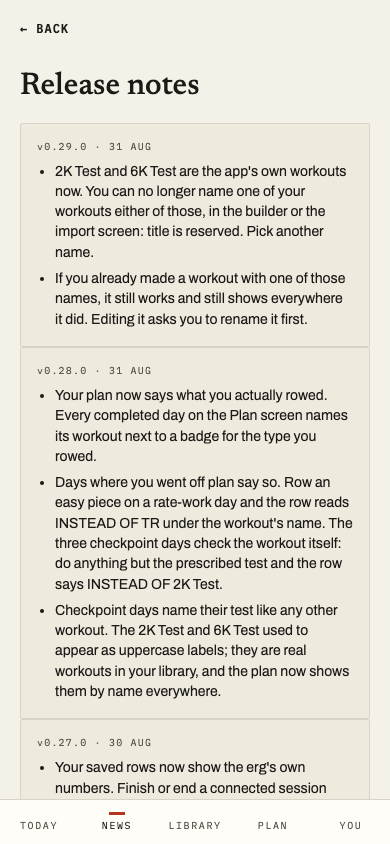
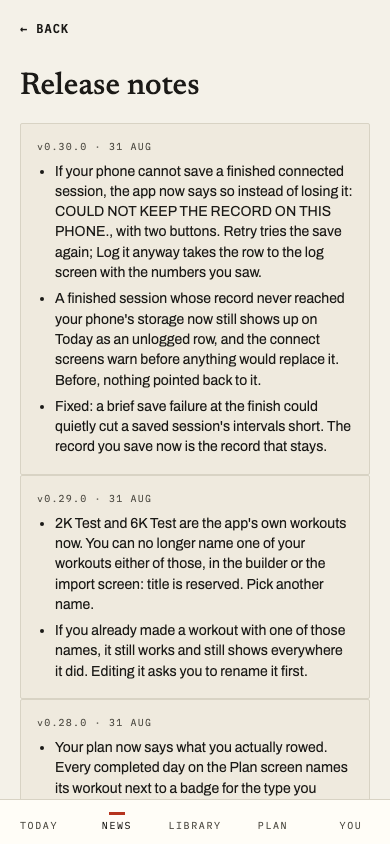
v0.30.0 release notes: the app says when it cannot keep the record (#241)
Claude-Session: https://claude.ai/code/session_01UEXqdgDid4Qjd8D5uoRZ3H

Changed region(s): [[0.0923, 0.1848, 0.8923, 0.955]]

diff --git a/app/e2e/news.spec.ts b/app/e2e/news.spec.ts
@@ -184,35 +184,36 @@ test("/news/releases lists every version, newest first", async ({ page }) => {
   // deliberately fails here — that is this pin's job, and it is why the
   // title no longer names a number that goes stale every tag.
   const versions = page.locator(".news-release-version");
-  await expect(versions).toHaveCount(28);
+  await expect(versions).toHaveCount(29);
   await expect(versions.nth(0)).toContainText(NEWEST_RELEASE_VERSION);
-  await expect(versions.nth(1)).toContainText("v0.28.0");
-  await expect(versions.nth(2)).toContainText("v0.27.0");
-  await expect(versions.nth(3)).toContainText("v0.26.0");
-  await expect(versions.nth(4)).toContainText("v0.25.0");
-  await expect(versions.nth(5)).toContainText("v0.24.0");
-  await expect(versions.nth(6)).toContainText("v0.23.0");
-  await expect(versions.nth(7)).toContainText("v0.22.0");
-  await expect(versions.nth(8)).toContainText("v0.21.0");
-  await expect(versions.nth(9)).toContainText("v0.20.0");
-  await expect(versions.nth(10)).toContainText("v0.19.1");
-  await expect(versions.nth(11)).toContainText("v0.19.0");
-  await expect(versions.nth(12)).toContainText("v0.18.1");
-  await expect(versions.nth(13)).toContainText("v0.18.0");
-  await expect(versions.nth(14)).toContainText("v0.17.0");
-  await expect(versions.nth(15)).toContainText("v0.16.0");
-  await expect(versions.nth(16)).toContainText("v0.15.0");
-  await expect(versions.nth(17)).toContainText("v0.14.0");
-  await expect(versions.nth(18)).toContainText("v0.13.0");
-  await expect(versions.nth(19)).toContainText("v0.12.0");
-  await expect(versions.nth(20)).toContainText("v0.11.0");
-  await expect(versions.nth(21)).toContainText("v0.10.0");
-  await expect(versions.nth(22)).toContainText("v0.9.0");
-  await expect(versions.nth(23)).toContainText("v0.8.0");
-  await expect(versions.nth(24)).toContainText("v0.7.0");
-  await expect(versions.nth(25)).toContainText("v0.5.1");
-  await expect(versions.nth(26)).toContainText("v0.5.0");
-  await expect(versions.nth(27)).toContainText("v0.4.0");
+  await expect(versions.nth(1)).toContainText("v0.29.0");
+  await expect(versions.nth(2)).toContainText("v0.28.0");
+  await expect(versions.nth(3)).toContainText("v0.27.0");
+  await expect(versions.nth(4)).toContainText("v0.26.0");
+  await expect(versions.nth(5)).toContainText("v0.25.0");
+  await expect(versions.nth(6)).toContainText("v0.24.0");
+  await expect(versions.nth(7)).toContainText("v0.23.0");
+  await expect(versions.nth(8)).toContainText("v0.22.0");
+  await expect(versions.nth(9)).toContainText("v0.21.0");
+  await expect(versions.nth(10)).toContainText("v0.20.0");
+  await expect(versions.nth(11)).toContainText("v0.19.1");
+  await expect(versions.nth(12)).toContainText("v0.19.0");
+  await expect(versions.nth(13)).toContainText("v0.18.1");
+  await expect(versions.nth(14)).toContainText("v0.18.0");
+  await expect(versions.nth(15)).toContainText("v0.17.0");
+  await expect(versions.nth(16)).toContainText("v0.16.0");
+  await expect(versions.nth(17)).toContainText("v0.15.0");
+  await expect(versions.nth(18)).toContainText("v0.14.0");
+  await expect(versions.nth(19)).toContainText("v0.13.0");
+  await expect(versions.nth(20)).toContainText("v0.12.0");
+  await expect(versions.nth(21)).toContainText("v0.11.0");
+  await expect(versions.nth(22)).toContainText("v0.10.0");
+  await expect(versions.nth(23)).toContainText("v0.9.0");
+  await expect(versions.nth(24)).toContainText("v0.8.0");
+  await expect(versions.nth(25)).toContainText("v0.7.0");
+  await expect(versions.nth(26)).toContainText("v0.5.1");
+  await expect(versions.nth(27)).toContainText("v0.5.0");
+  await expect(versions.nth(28)).toContainText("v0.4.0");
 });
 
 test("item 1 / round 4: opening an article from a scrolled News feed lands the reader at the top of its OWN scroller, and ← BACK now restores News's own scroll position (CL item: News scroll memory)", async ({

diff --git a/app/src/news/content/releaseNotes.ts b/app/src/news/content/releaseNotes.ts
@@ -5,6 +5,24 @@ import type { ReleaseNote } from "./types";
 // would notice, and internal-only releases are skipped.
 export const RELEASE_NOTES: ReleaseNote[] = [
   {
+    // v0.30.0 (2026-08-31): range v0.29.0..main = #239 alone, accounted
+    // per RF15 (`git log v0.29.0..main --oneline`, no --merges). The
+    // hand-off store: one module now owns the connected record on both
+    // persistence tiers. Item 1 is the sentence the ROADMAP notes-owed
+    // row has carried since the #230 pause ruling ("it returns with the
+    // hand-off store's PR"); the screen was Gate-0 approved at #230 and
+    // restored byte-identical. Item 3's defect is the §3 proven-on-main
+    // truncation (failed close write, finish-grace re-open, actuals
+    // 3->1) with a red-then-green replay gate over real walk bytes.
+    version: "v0.30.0",
+    date: "2026-08-31",
+    items: [
+      "If your phone cannot save a finished connected session, the app now says so instead of losing it: COULD NOT KEEP THE RECORD ON THIS PHONE., with two buttons. Retry tries the save again; Log it anyway takes the row to the log screen with the numbers you saw.",
+      "A finished session whose record never reached your phone's storage now still shows up on Today as an unlogged row, and the connect screens warn before anything would replace it. Before, nothing pointed back to it.",
+      "Fixed: a brief save failure at the finish could quietly cut a saved session's intervals short. The record you save now is the record that stays.",
+    ],
+  },
+  {
     // v0.29.0 (2026-08-31): the tag lands on #238's own merge — the
     // reservation is a NON-ADDITIVE API change (a request that used to
     // succeed now 400s), and docs/RELEASING.md requires the notes in the

diff --git a/app/e2e/releasePin.ts b/app/e2e/releasePin.ts
@@ -16,4 +16,4 @@
  *  claims.
  *
  *  Bump alongside each release-notes PR. */
-export const NEWEST_RELEASE_VERSION = "v0.29.0";
+export const NEWEST_RELEASE_VERSION = "v0.30.0";
